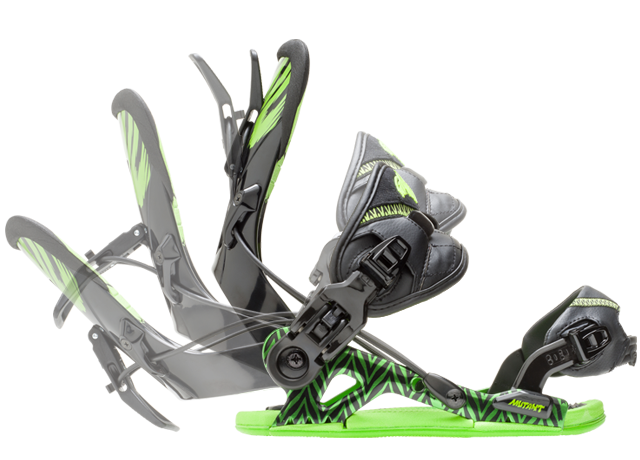
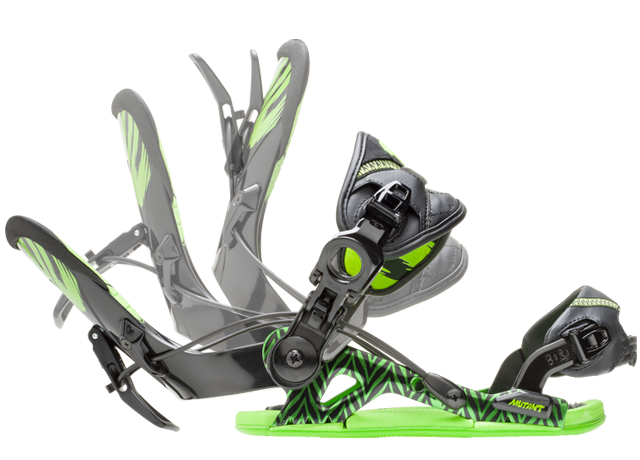
Updated binding image sequence

Changed region(s): [[0.0, 0.0913, 0.75, 0.9435]]

diff --git a/single-gnu_bindings.php b/single-gnu_bindings.php
@@ -176,11 +176,11 @@ Template Name: Bindings Detail
 								$taxTerms = get_the_terms($post->ID, 'gnu_bindings_categories');
 								$categoryName = "";
 								foreach( $taxTerms as $term ) {
-									$categoryName = $term->name;
+									$categoryName = $term->slug;
 									unset($taxTerms);
 								}
 								// figure out gender for image name
-								if ($categoryName == "Womens") {
+								if ($categoryName == "womens") {
 									$bindingAnimationGender = "womens";
 								} else {
 									$bindingAnimationGender = "mens";
@@ -209,22 +209,27 @@ Template Name: Bindings Detail
 							<div class="binding-animation">
 								<div class="binding-steps owl-carousel owl-theme">
 									<div class="binding-step">
-										<img src="<?php echo get_template_directory_uri(); ?>/_/img/bindings/gnu-binding-sequence-<?php echo $bindingAnimationGender; ?>-1.png" data-src="<?php echo get_template_directory_uri(); ?>/_/img/bindings/gnu-binding-sequence-<?php echo $bindingAnimationGender; ?>-1.png" alt="Reclining Highback" class="owl-lazy" />
+										<img src="<?php echo get_template_directory_uri(); ?>/_/img/bindings/gnu-binding-sequence-<?php echo $bindingAnimationGender; ?>-1.png" data-src="<?php echo get_template_directory_uri(); ?>/_/img/bindings/gnu-binding-sequence-<?php echo $bindingAnimationGender; ?>-1.png" alt="Easy Rider" class="owl-lazy" />
+										<h4>Easy Rider</h4>
+										<p class="small">Speed entry binding systems. Lightweight, performance and strength in an incredibly fast binding system.</p>
+									</div><!-- .binding-step -->
+									<div class="binding-step">
+										<img src="<?php echo get_template_directory_uri(); ?>/_/img/bindings/gnu-binding-sequence-<?php echo $bindingAnimationGender; ?>-1.png" data-src="<?php echo get_template_directory_uri(); ?>/_/img/bindings/gnu-binding-sequence-<?php echo $bindingAnimationGender; ?>-2.png" alt="Reclining Highback" class="owl-lazy" />
 										<h4>Reclining Highback</h4>
 										<p class="small">Makes entry and exit incredibly fast and easy with one hand! No more fumbling with ratchet buckles and ladders.</p>
 									</div><!-- .binding-step -->
 									<div class="binding-step">
-										<img src="<?php echo get_template_directory_uri(); ?>/_/img/bindings/gnu-binding-sequence-<?php echo $bindingAnimationGender; ?>-1.png" data-src="<?php echo get_template_directory_uri(); ?>/_/img/bindings/gnu-binding-sequence-<?php echo $bindingAnimationGender; ?>-2.png" alt="Auto Open Lever" class="owl-lazy" />
+										<img src="<?php echo get_template_directory_uri(); ?>/_/img/bindings/gnu-binding-sequence-<?php echo $bindingAnimationGender; ?>-1.png" data-src="<?php echo get_template_directory_uri(); ?>/_/img/bindings/gnu-binding-sequence-<?php echo $bindingAnimationGender; ?>-3.png" alt="Auto Open Lever" class="owl-lazy" />
 										<h4>Auto Open Lever</h4>
 										<p class="small">Auto Open Lever opens strap automatically when highback is lowered. Close easily with one click. Magic!</p>
 									</div><!-- .binding-step -->
 									<div class="binding-step">
-										<img src="<?php echo get_template_directory_uri(); ?>/_/img/bindings/gnu-binding-sequence-<?php echo $bindingAnimationGender; ?>-1.png" data-src="<?php echo get_template_directory_uri(); ?>/_/img/bindings/gnu-binding-sequence-<?php echo $bindingAnimationGender; ?>-3.png" alt="Micro Buckle" class="owl-lazy" />
+										<img src="<?php echo get_template_directory_uri(); ?>/_/img/bindings/gnu-binding-sequence-<?php echo $bindingAnimationGender; ?>-1.png" data-src="<?php echo get_template_directory_uri(); ?>/_/img/bindings/gnu-binding-sequence-<?php echo $bindingAnimationGender; ?>-4.png" alt="Micro Buckle" class="owl-lazy" />
 										<h4>Micro Buckle</h4>
 										<p class="small">With the Micro Buckle a rider can easily adjust strap tension on the go.</p>
 									</div><!-- .binding-step -->
 									<div class="binding-step">
-										<img src="<?php echo get_template_directory_uri(); ?>/_/img/bindings/gnu-binding-sequence-<?php echo $bindingAnimationGender; ?>-1.png" data-src="<?php echo get_template_directory_uri(); ?>/_/img/bindings/gnu-binding-sequence-<?php echo $bindingAnimationGender; ?>-4.png" alt="Pressure Relief Button" class="owl-lazy" />
+										<img src="<?php echo get_template_directory_uri(); ?>/_/img/bindings/gnu-binding-sequence-<?php echo $bindingAnimationGender; ?>-1.png" data-src="<?php echo get_template_directory_uri(); ?>/_/img/bindings/gnu-binding-sequence-<?php echo $bindingAnimationGender; ?>-5.png" alt="Pressure Relief Button" class="owl-lazy" />
 										<h4>Pressure Relief Button</h4>
 										<p class="small">Relief Button can be pressed to relax ankle strap pressure and increase circulation on your front foot.</p>
 									</div><!-- .binding-step -->
